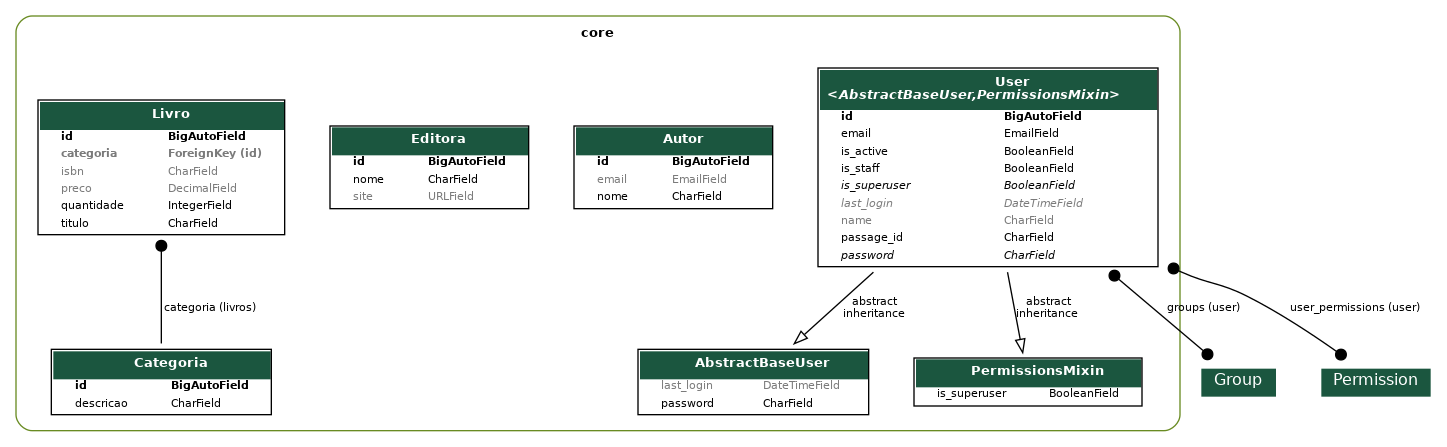
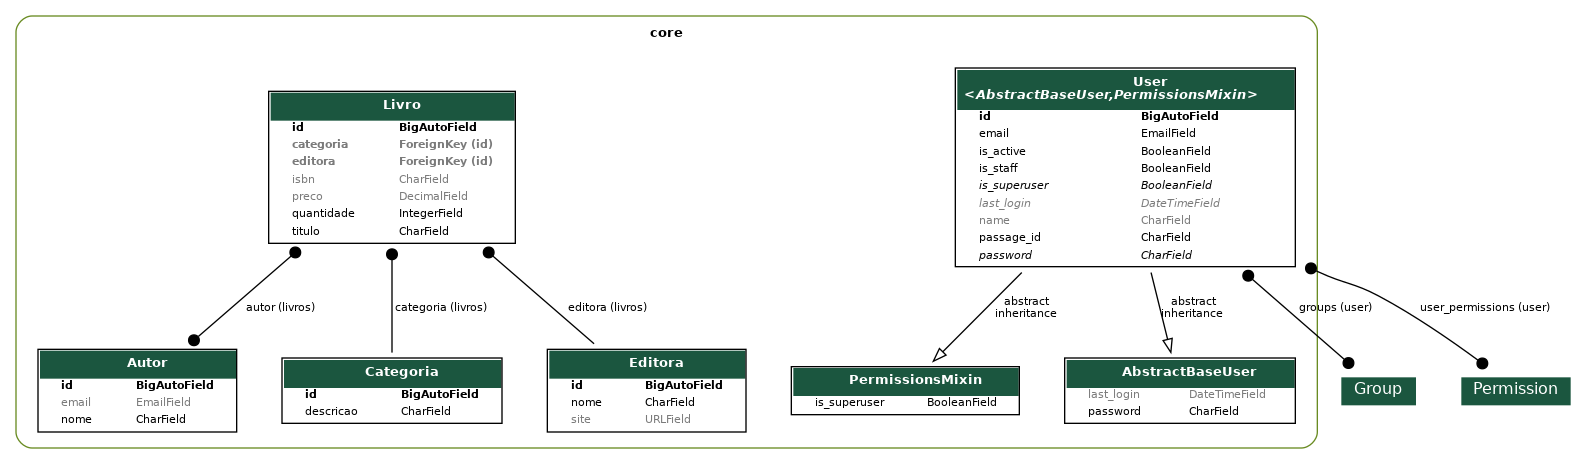
feat: inclusão do relacionamento n para n entre Livro e Autor

diff --git a/core/models/livro.py b/core/models/livro.py
@@ -1,13 +1,24 @@
 from django.db import models
 
+from .autor import Autor
 from .categoria import Categoria
+from .editora import Editora
+
 
 class Livro(models.Model):
     titulo = models.CharField(max_length=255)
     isbn = models.CharField(max_length=32, null=True, blank=True)
     quantidade = models.IntegerField(default=0, )
     preco = models.DecimalField(max_digits=7, decimal_places=2, default=0, null=True, blank=True)
-    categoria= models.ForeignKey(Categoria, on_delete=models.PROTECT, related_name="livros", null=True, blank=True)
-  
+    categoria = models.ForeignKey(
+        Categoria, on_delete=models.PROTECT, related_name="livros", null=True, blank=True
+    )
+    editora = models.ForeignKey(
+        Editora, on_delete=models.PROTECT, related_name="livros", null=True, blank=True
+    )
+    autor = models.ManyToManyField(
+        Autor, related_name="livros", blank=True 
+    )
+
     def __str__(self):
         return f"({self.id}) {self.titulo} ({self.quantidade})"

diff --git a/core/migrations/0013_remove_livro_autor_livro_autor.py b/core/migrations/0013_remove_livro_autor_livro_autor.py
@@ -1,0 +1,22 @@
+# Generated by Django 5.1.7 on 2025-04-22 11:32
+
+from django.db import migrations, models
+
+
+class Migration(migrations.Migration):
+
+    dependencies = [
+        ('core', '0012_livro_autor'),
+    ]
+
+    operations = [
+        migrations.RemoveField(
+            model_name='livro',
+            name='autor',
+        ),
+        migrations.AddField(
+            model_name='livro',
+            name='autor',
+            field=models.ManyToManyField(blank=True, related_name='livros', to='core.autor'),
+        ),
+    ]

diff --git a/core/migrations/0011_livro_editora.py b/core/migrations/0011_livro_editora.py
@@ -1,0 +1,19 @@
+# Generated by Django 5.1.7 on 2025-04-15 11:51
+
+import django.db.models.deletion
+from django.db import migrations, models
+
+
+class Migration(migrations.Migration):
+
+    dependencies = [
+        ('core', '0010_livro_categoria'),
+    ]
+
+    operations = [
+        migrations.AddField(
+            model_name='livro',
+            name='editora',
+            field=models.ForeignKey(blank=True, null=True, on_delete=django.db.models.deletion.PROTECT, related_name='livros', to='core.editora'),
+        ),
+    ]

diff --git a/core/migrations/0012_livro_autor.py b/core/migrations/0012_livro_autor.py
@@ -1,0 +1,19 @@
+# Generated by Django 5.1.7 on 2025-04-22 11:19
+
+import django.db.models.deletion
+from django.db import migrations, models
+
+
+class Migration(migrations.Migration):
+
+    dependencies = [
+        ('core', '0011_livro_editora'),
+    ]
+
+    operations = [
+        migrations.AddField(
+            model_name='livro',
+            name='autor',
+            field=models.ForeignKey(blank=True, null=True, on_delete=django.db.models.deletion.PROTECT, related_name='livros', to='core.autor'),
+        ),
+    ]
